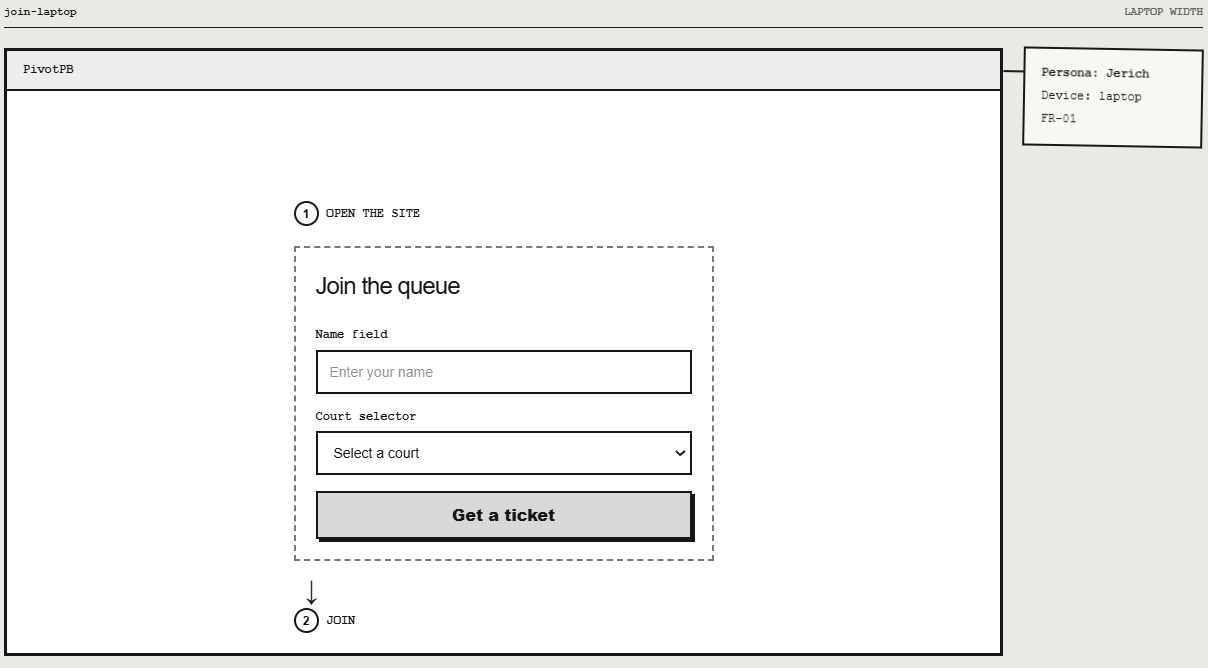
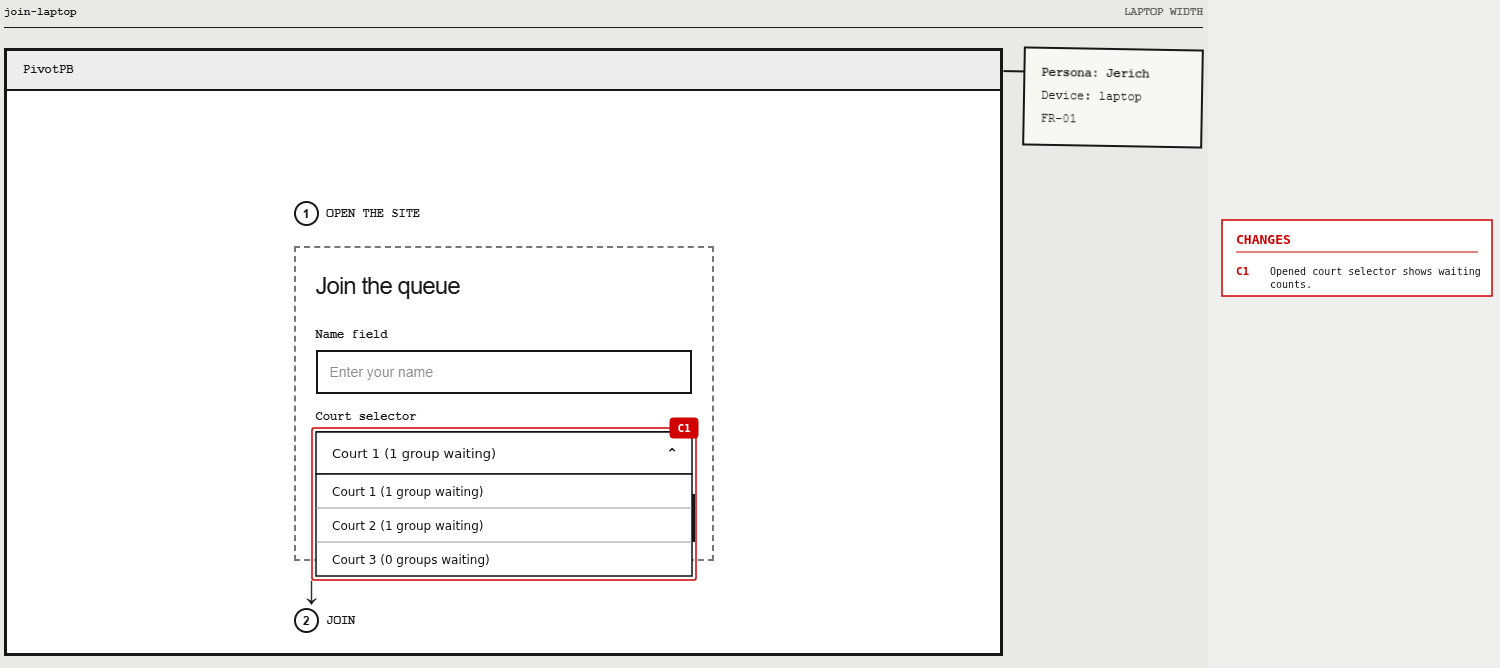
Update wireframes after self review (#1)

diff --git a/activities/docs/week3/feedback.md b/activities/docs/week3/feedback.md
@@ -1,0 +1,31 @@
+# Self review of personas and wireframes
+
+I reviewed each screen at phone and laptop width against my two personas, Jerich (player) and Lara (organizer), and against my "Because ..., my interface must ..." rules in `personas.md`.
+
+## Join the queue (Jerich, FR-01)
+
+**Works well:** The form asks for only a name and a court, with one large Get a ticket button. This follows my rule that Jerich joins in a hurry with one hand, so there is little to type and the button is easy to hit.
+
+**Problem:** The court selector gives no clue which court is busy. Jerich has to pick Court 1, 2 or 3 without knowing how many groups are waiting on each, which breaks visibility of system status. He could join the longest line by accident and only find out on the next screen.
+
+**Change:** I will show the waiting count inside each option, for example "Court 1 (1 group waiting)", so he can compare courts before he joins. This is a small change to the selector in both the phone and laptop frames.
+
+## My place (Jerich, FR-02 and FR-03)
+
+**Works well:** The court, ticket number, status and position are stacked from most to least important, and the ticket number is very large. This follows my rule that the order must be the biggest and clearest thing on the screen, so Jerich can read it in sunlight at a glance.
+
+**Problem:** When Jerich is called, the screen looks almost the same as when he is waiting, since only the word in the badge changes. He may be looking at the court or his friends and miss it. This breaks visibility of system status at the most important moment of the visit.
+
+**Change:** I will add a Called state to the frame, with a bold banner at the top that says "Go to Court 2 now" and a stronger badge, and the position sentence will be replaced by that message. The Waiting state stays as drawn. I will also keep the status in words and not only color.
+
+## Staff dashboard (Lara, FR-04, FR-05 and FR-06)
+
+**Works well:** Call next is large and sits near the top, and the waiting count per court sits just above the list. This follows my rule that Lara, who is often standing and interrupted, needs the most common action to be the easiest to reach, and that she can see all courts at a glance.
+
+**Problem:** Call next sits next to a court filter set to "All courts", so it is unclear which court it calls. Lara could call a group on the wrong court, which hurts error prevention, and a mistaken call is unfair to players because they are told to move to a court that is not free. The Serve button also appears on groups who have not been called yet, which lets her skip a step by accident.
+
+**Change:** I will make Call next work for one court at a time, either by showing a Call next button on each court's count or by disabling it until a court is chosen in the filter. I will also show Serve only on called rows and show Call on waiting rows, so the buttons match the group's status. I will fix the waiting count for Court 1 so it matches the list.
+
+## Wireframe updates
+
+I will update the join, My place and staff frames with the changes above before I start building. The words on the frames (court, ticket, groups, no show) match how players talk on the court, so I kept them.
